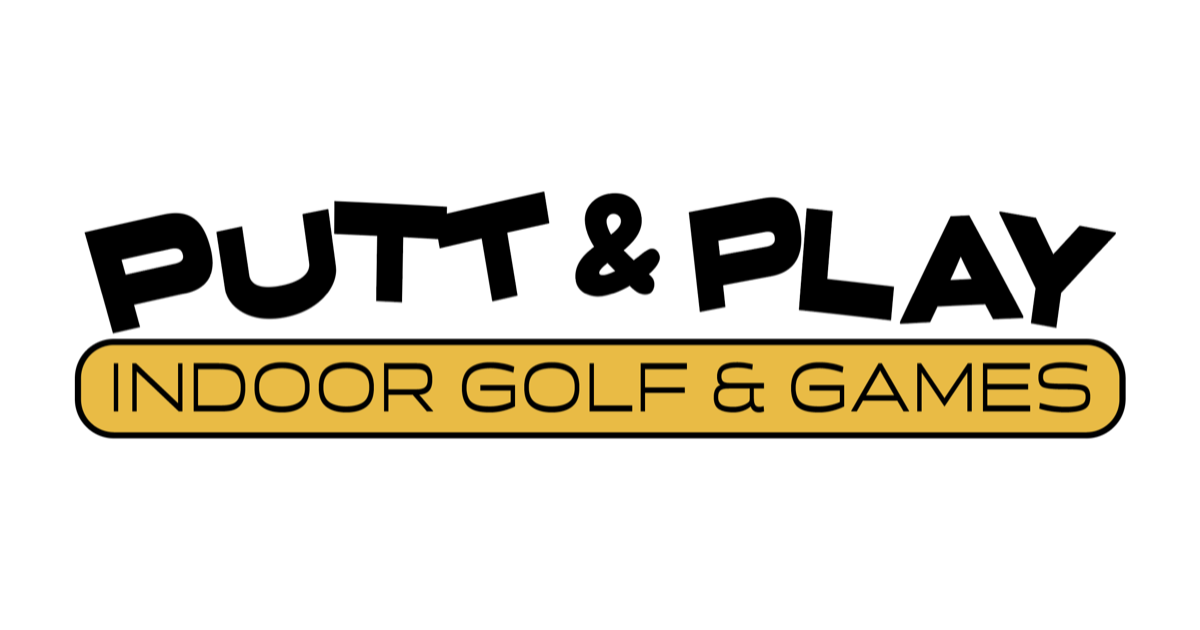
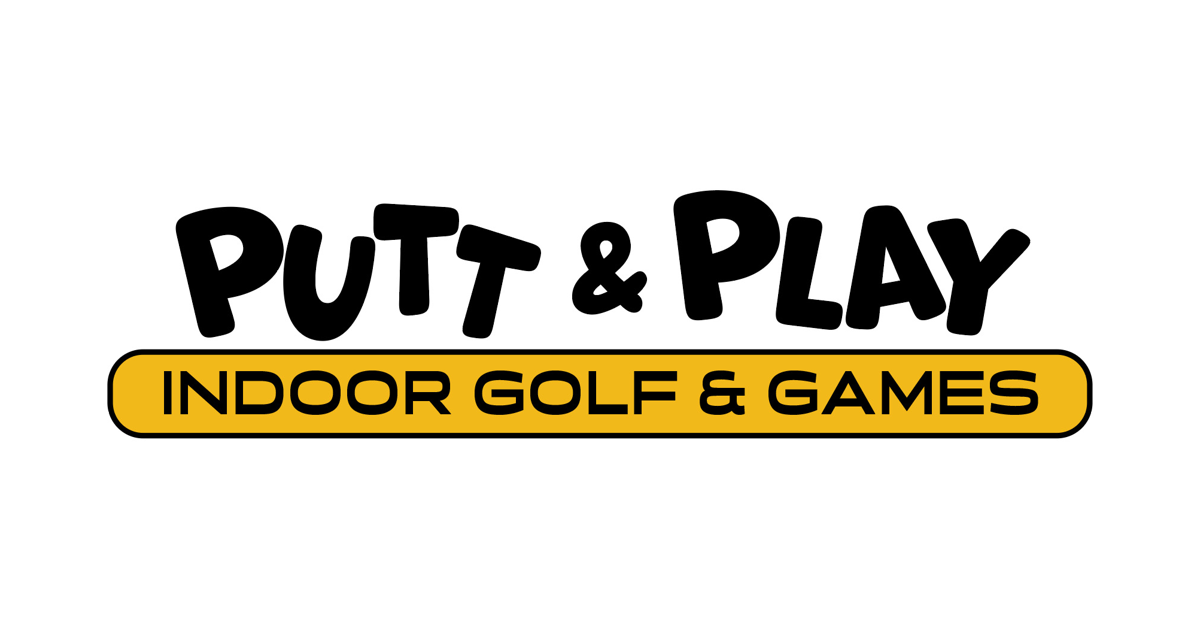
Swap in updated logotype and lockups, add VR lockup, resample brand colors from new artwork
Flag Red labels switch to black text (white on the new red is 4.4:1).

Changed region(s): [[0.0617, 0.3016, 0.9558, 0.6937]]

diff --git a/src/styles/global.css b/src/styles/global.css
@@ -4,21 +4,24 @@
   /* Core */
   --color-ink: #000000;
   --color-paper: #ffffff;
-  --color-gold: #e9bb45; /* master bar, primary buttons */
-  --color-flag: #da3831; /* small accents only */
+  --color-gold: #f1b91a; /* master bar, primary buttons */
+  --color-flag: #ed1c24; /* small accents only; black text on it (white is 4.4:1) */
 
   /* Golf */
-  --color-fairway: #2b663c;
-  --color-green: #41924d;
+  --color-fairway: #006837;
+  --color-green: #009444;
 
   /* Laser tag */
-  --color-laser: #cd2e7d;
-  --color-burst: #86308b;
-  --color-beam: #845b96;
-  --color-zap: #fdf251; /* never on white */
+  --color-laser: #e00980;
+  --color-burst: #92278f;
+  --color-beam: #885898;
+  --color-zap: #fff200; /* never on white */
 
-  /* PROPOSED, not yet approved (brand guide p.6) — TODO: owner to approve VR / Arcade / League colors */
-  --color-vr: #0e7490;
+  /* VR (from the VR lockup, Sept 2026 artwork) */
+  --color-vr: #262262;
+
+  /* PROPOSED, not yet approved (brand guide) — TODO: owner to approve Arcade / League colors.
+     League Navy now sits close to VR Indigo; consider a new league color. */
   --color-arcade: #f2762e; /* use black text */
   --color-league: #1e3a5f;
 

diff --git a/src/lib/colors.ts b/src/lib/colors.ts
@@ -12,7 +12,7 @@ export const surface = {
   arcade: "bg-arcade text-ink",
   league: "bg-league text-paper",
   gold: "bg-gold text-ink",
-  flag: "bg-flag text-paper",
+  flag: "bg-flag text-ink",
   paper: "bg-paper text-ink",
 } as const;
 
